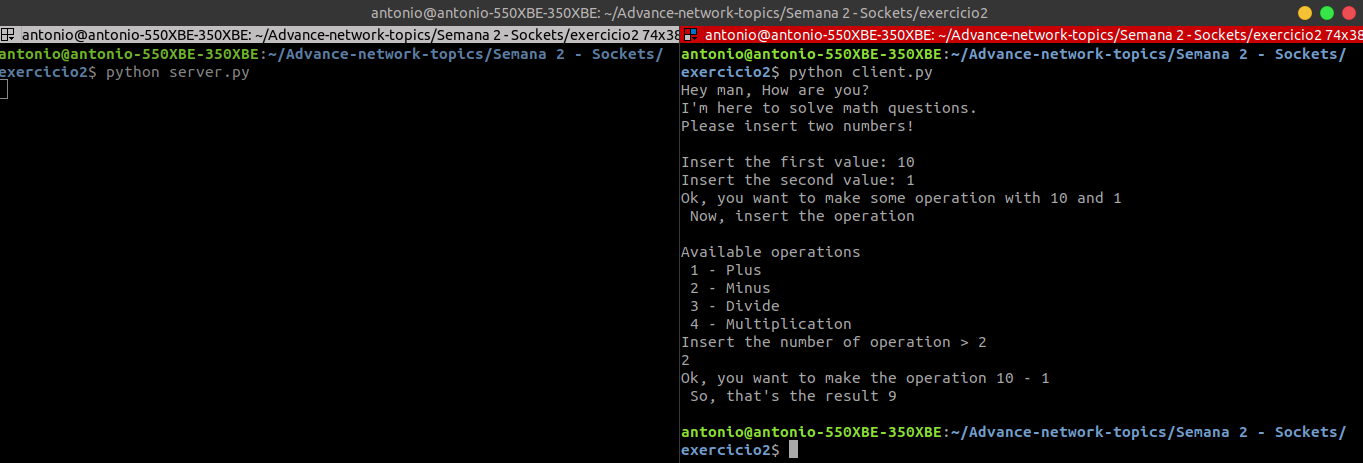
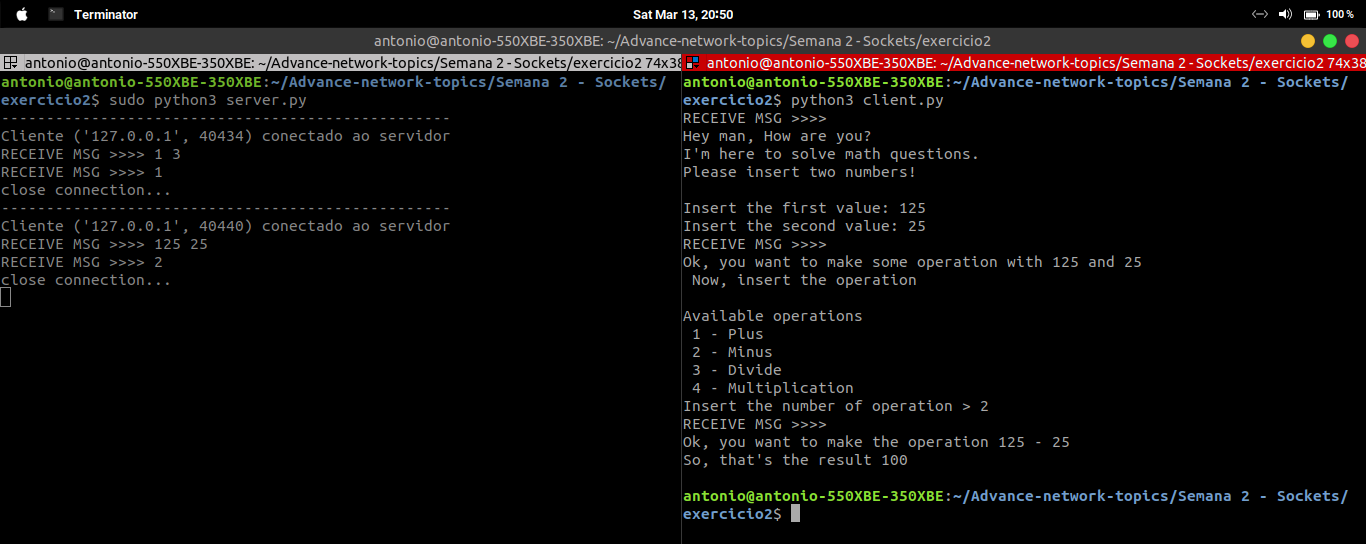
Added receive messages in each process

Changed region(s): [[0.0, 0.0, 1.0, 0.9978], [0.0, 0.3931, 0.339, 0.5443]]

diff --git a/Semana 2 - Sockets/exercicio2/server.py b/Semana 2 - Sockets/exercicio2/server.py
@@ -24,10 +24,14 @@ def createResult(firstNumber, request, secondNumber):
 
 while True:
     connectionSocket, addr = serverSocket.accept()
+    print(50*'-')
+    print("Cliente {} conectado ao servidor".format(addr))
+
     connectionSocket.send( ("Hey man, How are you? \nI'm here to solve math questions. \nPlease insert two numbers!\n").encode() )
 
     while True:
         request = connectionSocket.recv(1024).decode()
+        print("RECEIVE MSG >>>> " + request)
 
         if not request: 
             break
@@ -38,9 +42,9 @@ while True:
                     firstNumber = (float(numbers[0]))
                     secondNumber = (float(numbers[1]))
                 except:
-                     message = ("Ok, you want to make some operation with invalid numbers...\nVery funny man" )
-                     connectionSocket.send(message.encode())
-                     break
+                    print("invalid operation...")
+                    connectionSocket.send(("Ok, you want to make some operation with invalid numbers...\nVery funny man" ).encode())
+                    break
                 else:
                     message = ("Ok, you want to make some operation with %d and %d \n Now, insert the operation\n" %( firstNumber, secondNumber))
                     connectionSocket.send(message.encode())
@@ -48,6 +52,7 @@ while True:
             elif len(request) == 1:
                 connectionSocket.send(createResult(firstNumber, request, secondNumber))
                 break
+    print("close connection...")
     connectionSocket.close()
 
 

diff --git a/Semana 2 - Sockets/exercicio2/client.py b/Semana 2 - Sockets/exercicio2/client.py
@@ -6,6 +6,7 @@ clienteSocket.connect((serverName, serverPort))
 
 while True:
     message = clienteSocket.recv(1024).decode()
+    print("RECEIVE MSG >>>> ")
 
     if message.find("Please insert two numbers!") != -1:
         print(message)
@@ -19,7 +20,7 @@ while True:
     elif message.find("the result") != -1:
         print(message)
         break
-    elif message.find("very funny man") != -1:
+    else:
         print(message)
         break
 clienteSocket.close()
